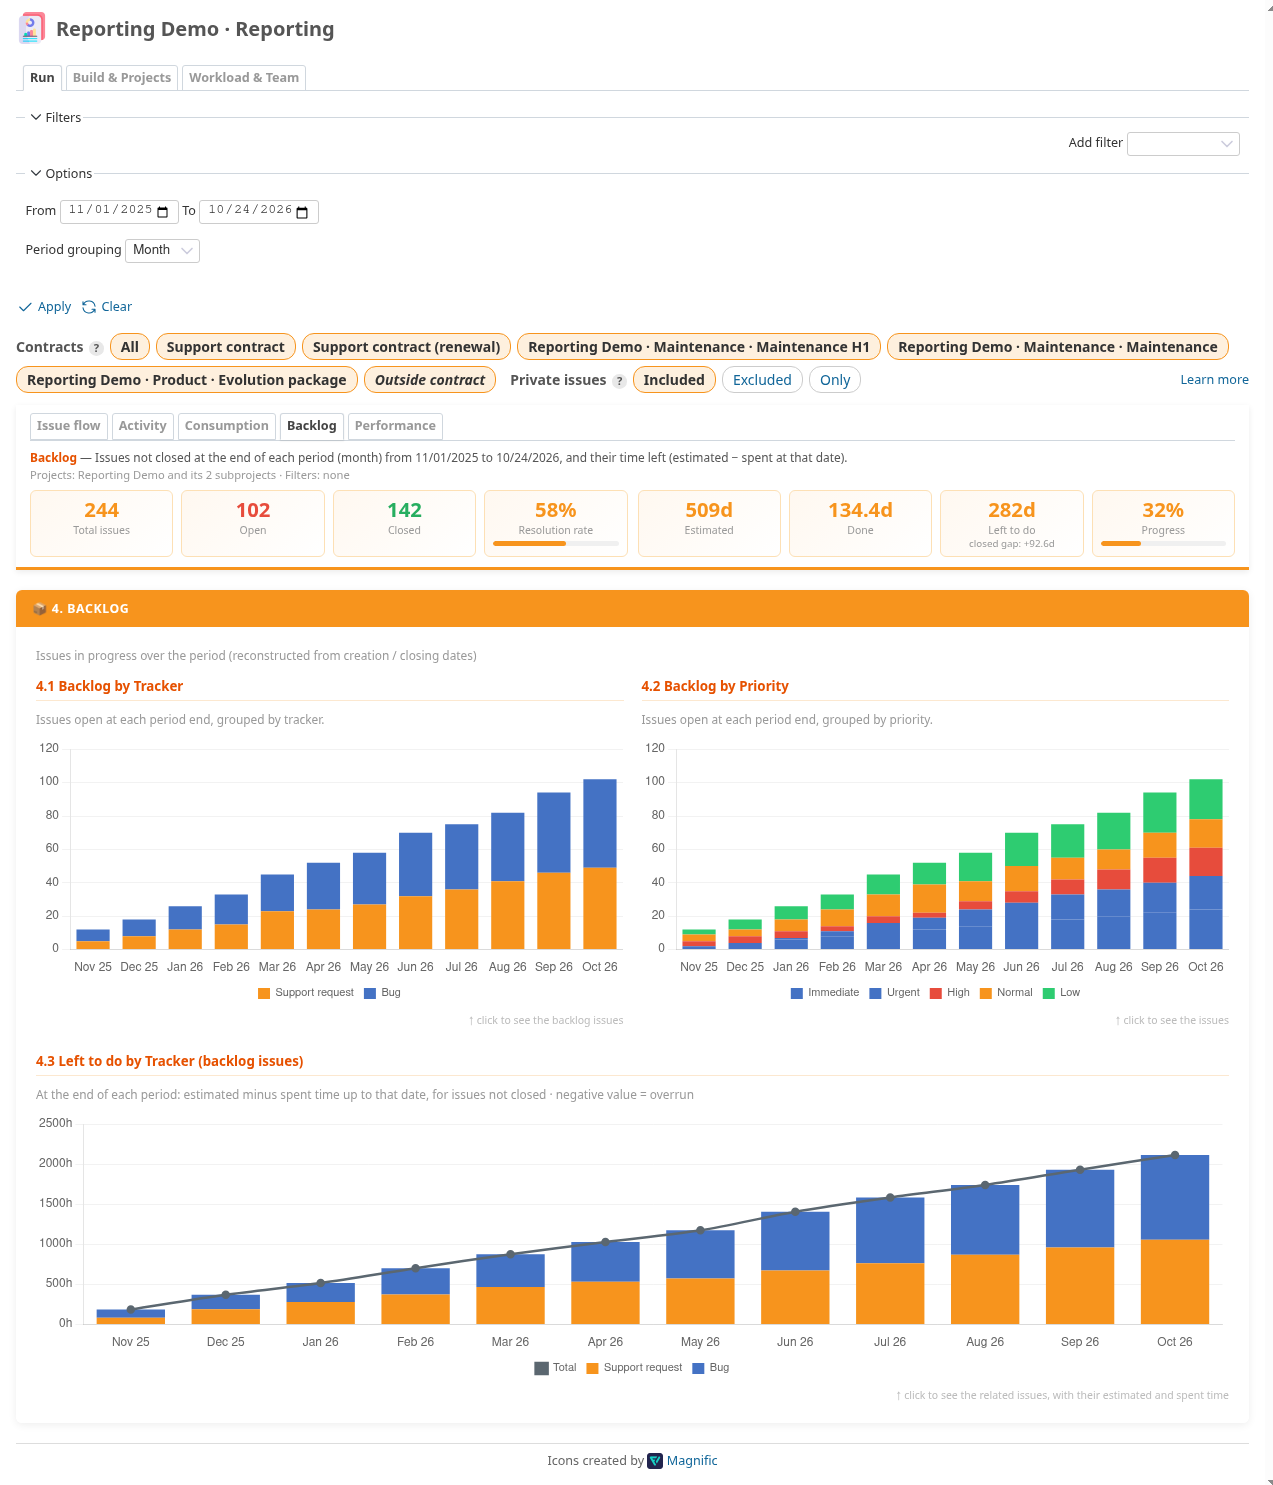
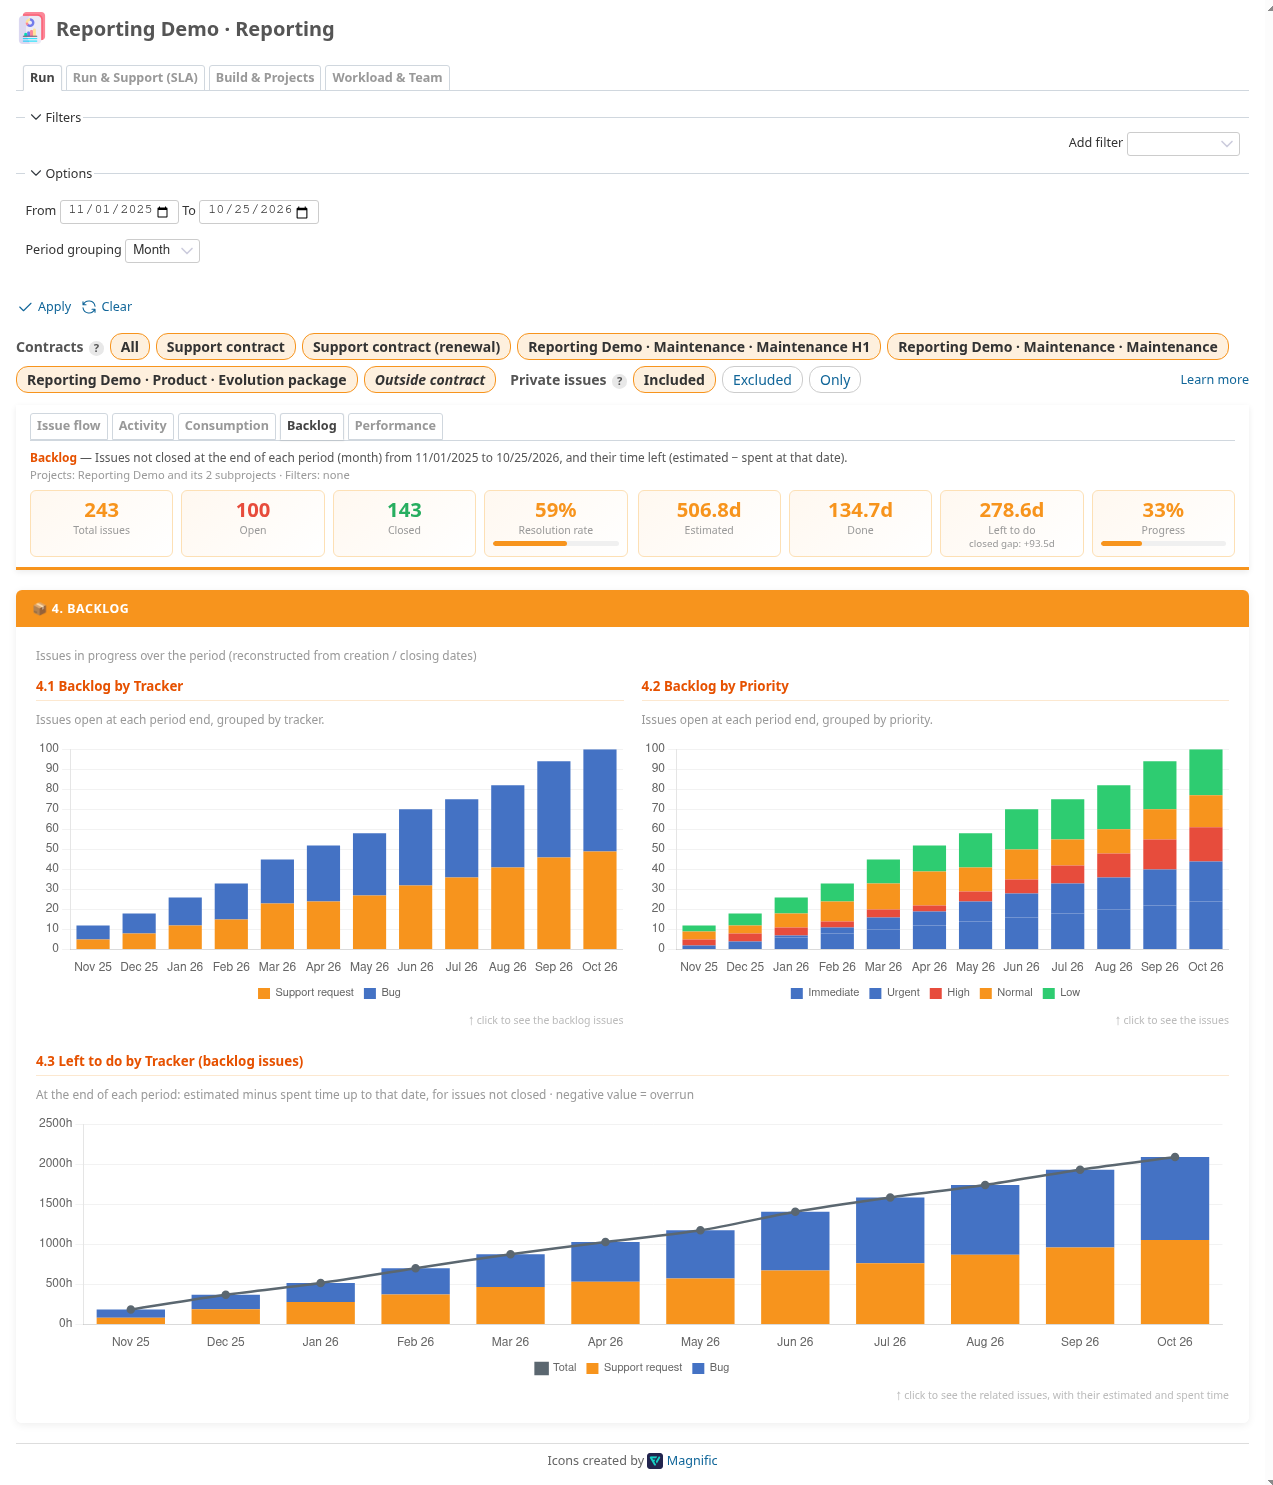
Add SLA demo data and the SLA screenshot to the guide
With redmine_sla on PostgreSQL or MySQL, the demo generator adds a demo
SLA (business hours, response and resolution terms per priority) on the
support trackers of every demo project, then lets the SLA plugin compute
their delays. The demo smoke check verifies the SLA report over these
computed delays, and a new CI job runs it with redmine_sla.

The documentation harness can run on PostgreSQL with the SLA plugin
(COMPAT_SLA_PATH), keeping the migrated schema and its SQL functions; the
guide gains the SLA step and its screenshots are regenerated that way.

diff --git a/db/demo_data.rb b/db/demo_data.rb
@@ -77,6 +77,12 @@ module RedmineReporting
       "Rejected" => ["New"]
     }.freeze
     MANAGER_ONLY_STATUSES = ["Closed", "Rejected"].freeze
+    # With the SLA plugin: support trackers get response and resolution delays, elapsing in
+    # business hours; terms are business minutes per priority (response, resolution).
+    SLA_TRACKER_NAMES = ["Bug", "Support request"].freeze
+    SLA_TYPES = {"Response" => ["New"], "Resolution" => ["New", "In Progress"]}.freeze
+    SLA_TERMS = {"Immediate" => [60, 480], "Urgent" => [120, 960], "High" => [240, 1440],
+                 "Normal" => [480, 2700], "Low" => [960, 5400]}.freeze
 
     # Two subprojects with distinct shapes: a busy maintenance run and a slower release-driven product.
     SUBPROJECTS = [
@@ -135,6 +141,11 @@ module RedmineReporting
 
     def self.load
       new.load
+    end
+
+    # The SLA plugin computes its delays with database functions, not available on SQLite.
+    def self.sla_available?
+      RedmineReporting::SlaFigures.installed? && !ActiveRecord::Base.connection.adapter_name.downcase.include?("sqlite")
     end
 
     def load
@@ -200,6 +211,8 @@ module RedmineReporting
         create_credit_contracts(subproject, trackers, activities)
       end
       create_credit_contracts(project, trackers, activities)
+      # Reloaded: the in-memory nested set does not see the subprojects created above.
+      ensure_sla(project.reload.self_and_descendants.to_a, trackers, statuses, priorities, roles) if self.class.sla_available?
       users.each { |collaborator| collaborator.update!(status: User::STATUS_LOCKED) }
       project
     end
@@ -685,6 +698,39 @@ module RedmineReporting
         end
         contract.save!
         previous = contract
+      end
+    end
+
+    # SLA definitions are global: the demo adds its own, then lets the SLA plugin compute
+    # the delays of the demo issues from their status history.
+    def ensure_sla(projects, trackers, statuses, priorities, roles)
+      calendar = ::SlaCalendar.find_or_create_by!(name: "Demo business hours")
+      unless ::SlaSchedule.where(sla_calendar_id: calendar.id).exists?
+        (1..5).each { |dow| ::SlaSchedule.create!(sla_calendar: calendar, dow: dow, start_time: "09:00:00", end_time: "17:59:59", match: true) }
+      end
+      sla = ::Sla.find_or_create_by!(name: "Demo support")
+      level = ::SlaLevel.find_or_create_by!(name: "Demo standard") { |item| item.assign_attributes(sla: sla, sla_calendar: calendar) }
+      priorities = priorities.index_by(&:name)
+      types = SLA_TYPES.each_with_index.map do |(name, status_names), index|
+        type = ::SlaType.find_or_create_by!(name: name)
+        statuses.values_at(*status_names).each { |status| ::SlaStatus.find_or_create_by!(sla_type: type, status: status) }
+        SLA_TERMS.each do |priority_name, terms|
+          priority = priorities.fetch(priority_name)
+          term = ::SlaLevelTerm.find_or_initialize_by(sla_level: level, sla_type: type, sla_priority_id: priority.id)
+          term.update!(priority: priority, term: terms[index])
+        end
+        type
+      end
+      roles.each_value { |role| role.add_permission!(:view_sla) }
+      sla_trackers = trackers.select { |tracker| SLA_TRACKER_NAMES.include?(tracker.name) }
+      projects.each do |project|
+        project.enabled_module_names = (project.enabled_module_names + %w[sla]).uniq
+        project.save!
+        sla_trackers.each { |tracker| ::SlaProjectTracker.find_or_create_by!(project: project, tracker: tracker) { |item| item.sla = sla } }
+      end
+      Issue.where(project_id: projects.map(&:id), tracker_id: sla_trackers.map(&:id)).find_each do |issue|
+        ::SlaCache.find_by_issue_id(issue.id)
+        types.each { |type| ::SlaCacheSpent.find_by_issue_and_type_id(issue, type.id) }
       end
     end
 

diff --git a/test/documentation/configuration_test.rb b/test/documentation/configuration_test.rb
@@ -77,6 +77,11 @@ class ReportingConfigurationDocumentationTest < ApplicationSystemTestCase
   end
 
   def test_04_settings_tab
+    if RedmineReporting::DemoData.sla_available?
+      project = Project.find_by!(identifier: PROJECT)
+      assert RedmineReporting::SlaSource.new(project).configured?,
+        "SLA not configured: modules #{project.enabled_module_names.inspect}, trackers #{SlaProjectTracker.where(project_id: project.id).count}"
+    end
     visit "/projects/#{PROJECT}/settings/reporting"
     assert_selector "#reporting-settings"
     screenshot "05-settings-default", "#tab-content-reporting"
@@ -84,6 +89,8 @@ class ReportingConfigurationDocumentationTest < ApplicationSystemTestCase
       check "reporting_section_run"
       check "reporting_section_build"
       check "reporting_section_workload"
+      # The SLA family needs the SLA plugin, which only computes on PostgreSQL or MySQL.
+      check "reporting_section_sla" if RedmineReporting::DemoData.sla_available?
       click_button "Save"
     end
     assert_selector "#flash_notice"
@@ -106,7 +113,7 @@ class ReportingConfigurationDocumentationTest < ApplicationSystemTestCase
     assert_selector "#flash_notice"
     setting = ReportingProjectSetting.find_by!(project: Project.find_by!(identifier: PROJECT))
     assert_equal 7.5, setting.hours_per_day
-    assert_equal %w[build run workload], setting.section_ids.sort
+    assert_equal (%w[build run workload] + (RedmineReporting::DemoData.sla_available? ? %w[sla] : [])).sort, setting.section_ids.sort
   end
 
   def test_05_contract
@@ -208,6 +215,14 @@ class ReportingConfigurationDocumentationTest < ApplicationSystemTestCase
     visit "/projects/#{PROJECT}/reporting/help"
     assert_selector ".reporting-help h3#envelopes"
     screenshot "21-help", "#content", max_height: 1100
+  end
+
+  def test_11_sla_dashboard
+    skip "SLA screenshots need the SLA plugin on PostgreSQL" unless RedmineReporting::DemoData.sla_available?
+
+    open_reporting(section: "sla", tab: "sla")
+    assert_selector ".reporting-sla-type", count: 2
+    screenshot "22-sla", "#content", max_height: 1500
   end
 
   private

diff --git a/test/compatibility/demo_smoke.rb b/test/compatibility/demo_smoke.rb
@@ -20,7 +20,21 @@
 require Rails.root.join("plugins/redmine_reporting/db/demo_data")
 RedmineReporting::DemoData.load
 counts = [Project.count, Issue.count, TimeEntry.count]
+if RedmineReporting::DemoData.sla_available?
+  # Checked after the first load too: a reload must not hide what the first one missed.
+  abort "Demo SLA not configured on every project" unless SlaProjectTracker.distinct.count(:project_id) == Project.count
+end
 RedmineReporting::DemoData.load
 abort "Demo duplicates" unless counts == [Project.count, Issue.count, TimeEntry.count]
 abort "Active demo accounts" if User.where("login LIKE ?", "reporting-%").where.not(status: User::STATUS_LOCKED).exists?
 puts "DEMO PASS projects/issues/time_entries=#{counts.inspect}"
+# With the SLA plugin (PostgreSQL, MySQL), its own computation must give the report delays.
+if RedmineReporting::DemoData.sla_available?
+  project = Project.find_by!(identifier: RedmineReporting::DemoData::PROJECT_IDENTIFIER)
+  query = ReportingQuery.new(name: "Demo", project: project, user: User.where(admin: true).first!)
+  query.section = "sla"
+  types = RedmineReporting::ReportBuilder.new(query: query, first_day: Date.current << 12, last_day: Date.current).build.fetch(:sla).fetch(:types)
+  summary = types.map { |type| [type[:name], type[:ended], type[:respected], type[:running]] }
+  abort "No SLA delay in the demo: #{summary.inspect}" unless types.length == 2 && types.all? { |type| type[:ended].positive? }
+  puts "DEMO SLA PASS type/ended/respected/running=#{summary.inspect}"
+end

diff --git a/README.md b/README.md
@@ -344,6 +344,11 @@ with development and support envelopes. It can be
 run again without duplicating anything: a later run replays the same stories up to
 the current date.
 
+With redmine_sla on PostgreSQL or MySQL, the generator also adds a *Demo support* SLA
+(business hours Monday to Friday, response and resolution terms per priority) on the
+Bug and Support request trackers of every demo project, then lets the SLA plugin compute
+the delays of their issues. SLA definitions are global, like the other dictionaries.
+
 ## Development
 
 ### Architecture

diff --git a/CHANGELOG.md b/CHANGELOG.md
@@ -1,5 +1,12 @@
 # Changelog
 
+## Unreleased
+
+- Demo data: with redmine_sla on PostgreSQL or MySQL, a demo SLA on the support trackers,
+  whose delays the SLA plugin computes.
+- The configuration guide shows the SLA report; its screenshots are regenerated with
+  the SLA plugin on PostgreSQL (`COMPAT_SLA_PATH=… test/documentation/run.sh`).
+
 ## 1.5.0 — 2026-10-25
 
 - Add the **Run & Support (SLA)** report, with the redmine_sla plugin: for each SLA type,
